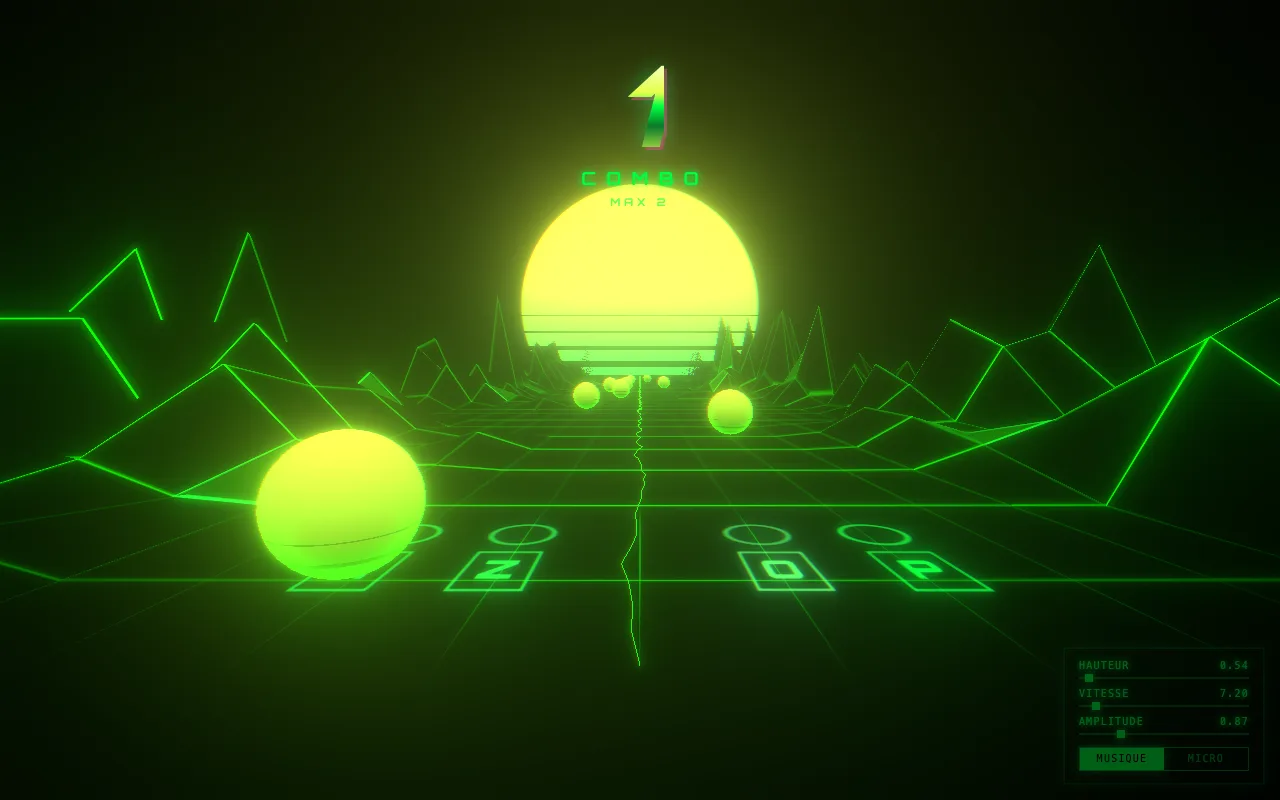
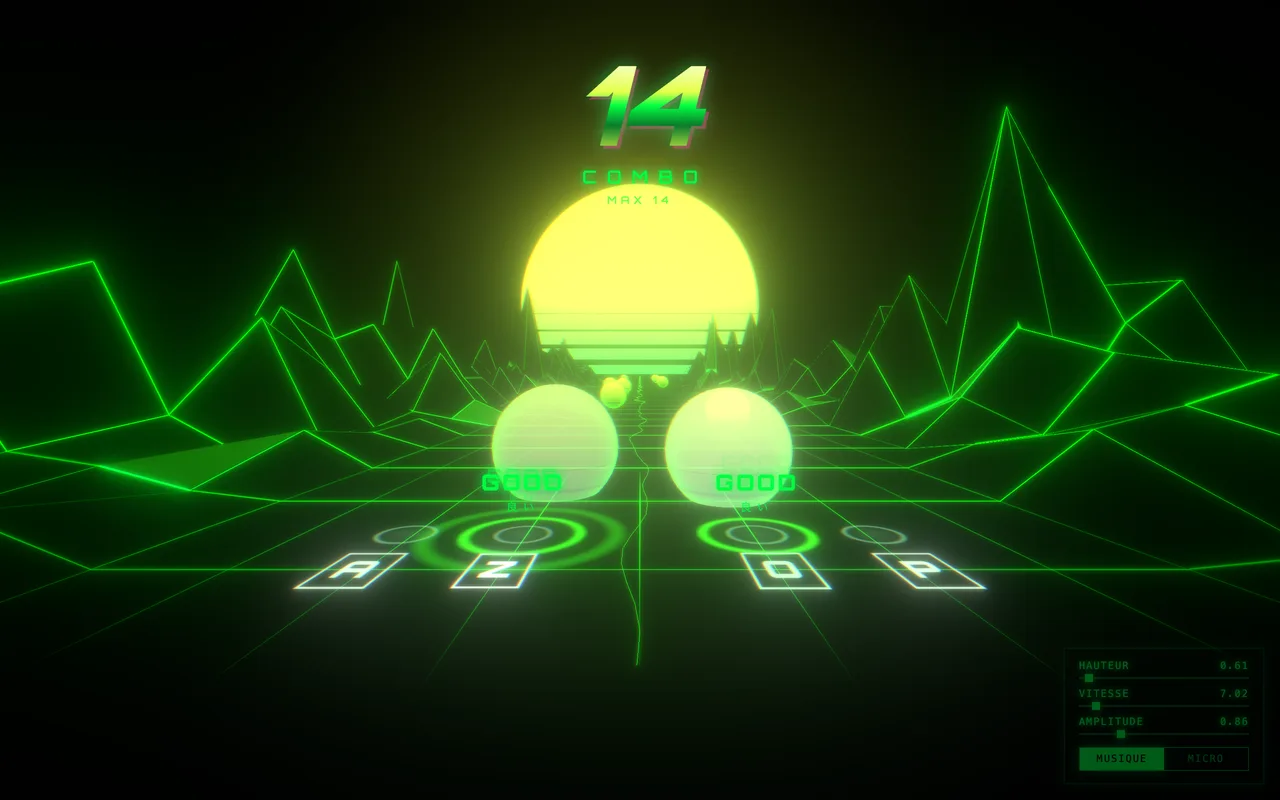
Shoot Inspirations and Neon Horizon for each image frame
A project or game can add a portrait capture (gallery cards, detail
modal) and a square one (game cards) next to its landscape capture;
without them the landscape one is cropped as before.

The detail modal's row now follows the dialog height: the picture is
framed by what is visible and the text scrolls instead of being clipped.

diff --git a/v2/src/components/ProjectDetailModal.jsx b/v2/src/components/ProjectDetailModal.jsx
@@ -1,7 +1,7 @@
 import { useEffect, useRef } from 'react'
 import { createPortal } from 'react-dom'
 import { AnimatePresence, motion } from 'motion/react'
-import { asset } from '../utils/asset'
+import { workImage } from '../utils/workImage'
 import './ProjectDetailModal.css'
 
 /**
@@ -80,13 +80,19 @@ const ProjectDetailModal = ({ open, onClose, project, lang, t }) => {
             </button>
 
             <div className="pdm-media">
-              <img
-                src={asset(`assets/images/${project.image}`)}
-                alt={lang === 'fr'
-                  ? `Capture du projet ${title}`
-                  : `${title} project screenshot`}
-                loading="lazy"
-              />
+              <picture>
+                {/* Same breakpoint as the stylesheet: above it the panel is tall */}
+                {project.imagePortrait && (
+                  <source media="(min-width: 761px)" srcSet={workImage(project, 'portrait')} />
+                )}
+                <img
+                  src={workImage(project)}
+                  alt={lang === 'fr'
+                    ? `Capture du projet ${title}`
+                    : `${title} project screenshot`}
+                  loading="lazy"
+                />
+              </picture>
             </div>
 
             <div className="pdm-body">

diff --git a/v2/src/sections/Games.jsx b/v2/src/sections/Games.jsx
@@ -4,7 +4,7 @@ import { useI18n } from '../hooks/useI18n'
 import Waves from '../components/Waves'
 import Reveal from '../components/Reveal'
 import games from '../data/games.json'
-import { asset } from '../utils/asset'
+import { workImage } from '../utils/workImage'
 
 const PlayIcon = () => (
   <svg width="18" height="18" viewBox="0 0 24 24" fill="none" aria-hidden="true">
@@ -173,7 +173,7 @@ const Games = () => {
                     >
                       <div className="game-card-media">
                         <img
-                          src={asset(`assets/images/${game.image}`)}
+                          src={workImage(game, 'square')}
                           alt={lang === 'fr' ? `Aperçu du jeu ${title}` : `${title} game screenshot`}
                           loading="lazy"
                           className="game-card-img"

diff --git a/v2/src/components/ProjectDetailModal.css b/v2/src/components/ProjectDetailModal.css
@@ -17,6 +17,9 @@
   max-height: min(86vh, 820px);
   display: grid;
   grid-template-columns: minmax(0, 1.05fr) minmax(0, 1fr);
+  /* The row follows the dialog, not its content: past max-height the text
+     scrolls and the picture keeps the visible height instead of being clipped */
+  grid-template-rows: minmax(0, 1fr);
   background: var(--bg-panel);
   border: 1px solid var(--border-accent);
   box-shadow: var(--shadow), 0 0 60px rgba(0, 255, 179, 0.08);
@@ -74,6 +77,10 @@
   inset: 0;
   background: linear-gradient(135deg, transparent 50%, rgba(0, 255, 179, 0.06));
   pointer-events: none;
+}
+
+.pdm-media picture {
+  display: contents;
 }
 
 .pdm-media img {
@@ -195,6 +202,7 @@
 @media (max-width: 760px) {
   .pdm-dialog {
     grid-template-columns: 1fr;
+    grid-template-rows: auto minmax(0, 1fr);
     max-height: 90vh;
   }
 

diff --git a/v2/src/sections/Projects.jsx b/v2/src/sections/Projects.jsx
@@ -5,7 +5,7 @@ import GlowCard from '../components/GlowCard'
 import MagneticButton from '../components/MagneticButton'
 import ProjectDetailModal from '../components/ProjectDetailModal'
 import { useI18n } from '../hooks/useI18n'
-import { asset } from '../utils/asset'
+import { workImage } from '../utils/workImage'
 
 const fadeSwap = {
   initial: { opacity: 0, y: 14 },
@@ -25,7 +25,7 @@ const Projects = ({ projects }) => {
 
   const galleryItems = useMemo(() =>
     projects.map((project) => ({
-      image: asset(`assets/images/${project.image}`),
+      image: workImage(project, 'portrait'),
       text: project.title[lang] || project.title.en,
     })), [projects, lang])
 

diff --git a/v2/src/utils/workImage.js b/v2/src/utils/workImage.js
@@ -1,0 +1,12 @@
+import { asset } from './asset'
+
+// Every project and game has one landscape capture (`image`). Those shot again
+// for the other frames add `imagePortrait` (gallery cards, detail modal) or
+// `imageSquare` (game cards); without them the landscape capture is cropped.
+export const workImage = (work, format = 'landscape') => {
+  const file =
+    (format === 'portrait' && work.imagePortrait) ||
+    (format === 'square' && work.imageSquare) ||
+    work.image
+  return asset(`assets/images/${file}`)
+}
